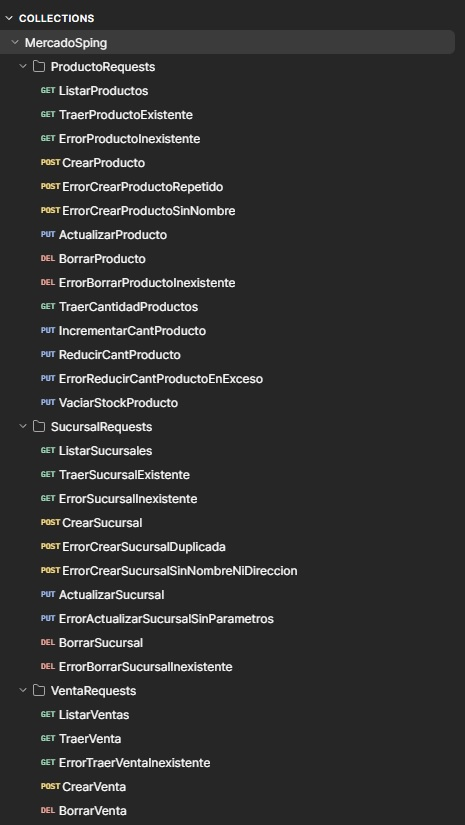
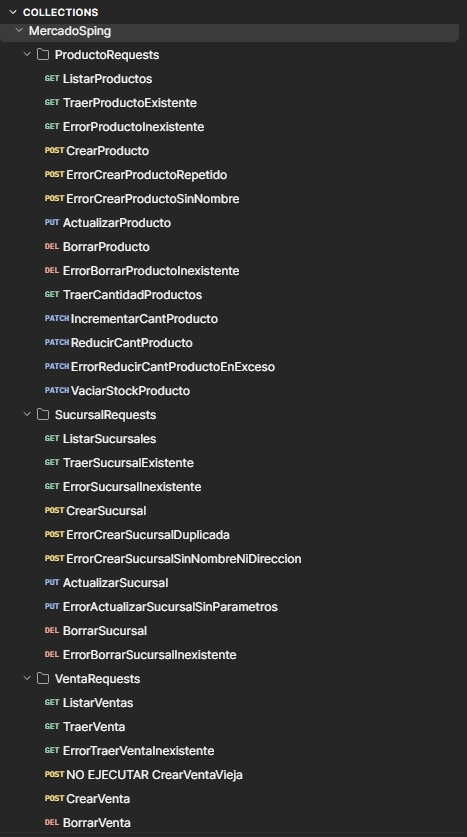
Eliminacion de codigo comentado e imports no usados

Changed region(s): [[0.0301, 0.0, 0.6624, 1.0]]

diff --git a/src/main/java/com/supermercado_spring/dto/DetalleVentaDTO.java b/src/main/java/com/supermercado_spring/dto/DetalleVentaDTO.java
@@ -1,11 +1,9 @@
 package com.supermercado_spring.dto;
 
 import jakarta.validation.constraints.NotNull;
-import jakarta.validation.constraints.NotBlank;
 import jakarta.validation.constraints.Positive;
 import lombok.*;
 
-import java.math.BigDecimal;
 
 @Getter @Setter @NoArgsConstructor @AllArgsConstructor @Builder
 public class DetalleVentaDTO {
@@ -18,18 +16,5 @@ public class DetalleVentaDTO {
     @Positive(message = "La cantidad del producto debe ser mayor a 0")
     private Integer cantidad;
 
-    /*
-    //@Positive(message = "El id no puede ser negativo ni 0")
-    private Long idDetalleVenta;
-
-    private String nombreProducto;
-
-    @Positive(message = "El valor del producto debe ser positivo y mayor a 0")
-    private BigDecimal precioUnitario;
-
-    //Venta
-    @Positive(message = "El subtotal de la venta no puede ser negativo ni 0")
-    private BigDecimal subtotal;
-    */
 
 }

diff --git a/src/main/java/com/supermercado_spring/dto/VentaDTO.java b/src/main/java/com/supermercado_spring/dto/VentaDTO.java
@@ -5,22 +5,11 @@ import jakarta.validation.Valid;
 import jakarta.validation.constraints.*;
 import lombok.*;
 
-import java.math.BigDecimal;
-import java.time.LocalDateTime;
 import java.util.List;
 
 @Getter @Setter @AllArgsConstructor @NoArgsConstructor @Builder
 public class VentaDTO {
 
-
-
-    /*
-    @PastOrPresent(message = "La fecha solo puede ser actual o del pasado (No se aceptan fechas futuras)")
-    private LocalDateTime fechaVenta;
-
-    @PositiveOrZero(message = "El total del a venta no puede ser negativo")
-    private BigDecimal total;
-    */
 
     //Datos de Venta
     //@Positive(message = "El id debe ser estrictamente positivo")

diff --git a/src/main/java/com/supermercado_spring/dto/DetalleVentaResponseDTO.java b/src/main/java/com/supermercado_spring/dto/DetalleVentaResponseDTO.java
@@ -1,13 +1,10 @@
 package com.supermercado_spring.dto;
 
 import jakarta.validation.constraints.NotNull;
-import jakarta.validation.constraints.NotBlank;
-import jakarta.validation.constraints.PastOrPresent;
 import jakarta.validation.constraints.Positive;
 import lombok.*;
 
 import java.math.BigDecimal;
-import java.time.LocalDateTime;
 
 @Getter @Setter @NoArgsConstructor @AllArgsConstructor @Builder
 public class DetalleVentaResponseDTO {

diff --git a/src/main/java/com/supermercado_spring/service/interfaces/VentaServiceInterface.java b/src/main/java/com/supermercado_spring/service/interfaces/VentaServiceInterface.java
@@ -1,6 +1,5 @@
 package com.supermercado_spring.service.interfaces;
 
-import com.supermercado_spring.dto.ProductoDTO;
 import com.supermercado_spring.dto.VentaDTO;
 import com.supermercado_spring.dto.VentaResponseDTO;
 